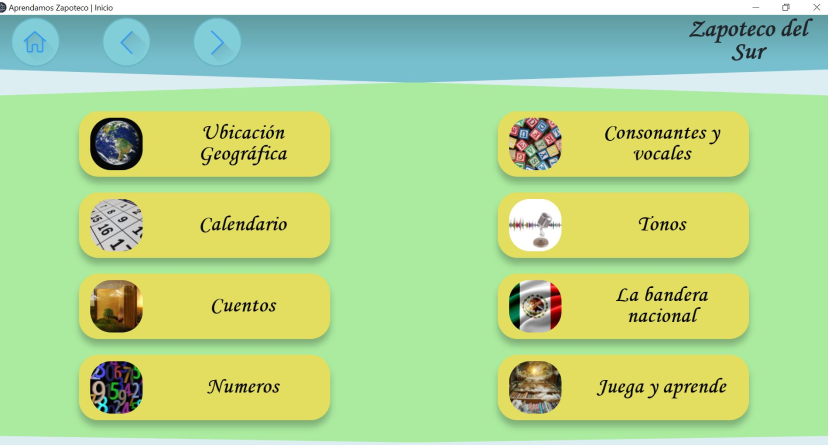
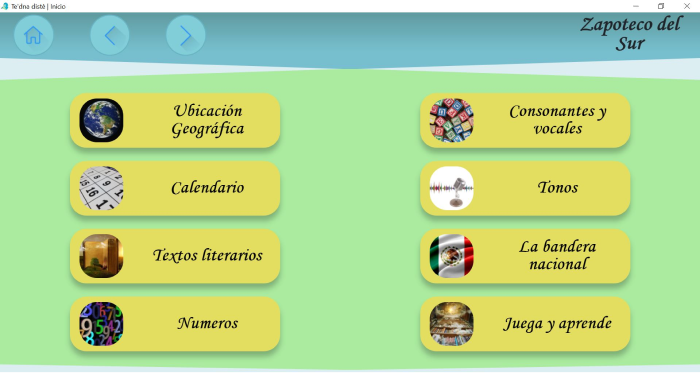
Added link to download installers

diff --git a/src/components/commons/ButtonMain.js b/src/components/commons/ButtonMain.js
@@ -1,17 +1,16 @@
 import React, { useState } from 'react';
 import '../../styles/styleButtonMain.css';
+import data from '../../data/buttonMain';
 
 const ButtonMain = () => {
-  const links = [
-    'https://www.youtube.com/watch?v=IaK7D_o8VYw',
-    'https://www.youtube.com/watch?v=hZDaS9xyINI'
-  ];
-  const [platform, setPlatform] = useState(navigator.platform);
-  const [link, setLink] = useState(links[platform === 'Win32' ? 0 : 1]);
+  const temPlatform = navigator.platform === 'Win32' ? 'Win32' : 'LinuxDeb';
+  const [platform, setPlatform] = useState(temPlatform);
+  const [link, setLink] = useState(data[temPlatform].linkToDownload);
 
   const changePlatform = (e) => {
-    setPlatform(e.target.name);
-    setLink(links[e.target.name === 'Win32' ? 0 : 1]);
+    const newPlatform = e.target.name;
+    setPlatform(newPlatform);
+    setLink(data[newPlatform].linkToDownload);
   };
 
   return (
@@ -25,7 +24,7 @@ const ButtonMain = () => {
           fontSize: '18px',
           fontWeight: 'bold'
         } }
-        >Descarga para { platform === 'Win32' ? 'Windows' : 'Linux' }</p>
+        >Descarga para { data[platform].platform }</p>
         <p style={ {
           marginBottom: '4px',
           fontSize: '16px'
@@ -37,14 +36,16 @@ const ButtonMain = () => {
         <span className="visually-hidden">Toggle Dropdown</span>
       </button>
       <ul className="dropdown-menu">
-        <li>
-          <button className="dropdown-item" type="button"
-            name="Win32" onClick={ changePlatform }>Windows</button>
-        </li>
-        <li>
-          <button className="dropdown-item" type="button"
-            name="Linux" onClick={ changePlatform }>Linux</button>
-        </li>
+        { Object.keys(data).map((platformId, index) =>
+          <li key={ index }>
+            <button
+              className="dropdown-item"
+              type="button"
+              name={ platformId }
+              onClick={ changePlatform }
+            >{ data[platformId].platform }</button>
+          </li>)
+        }
       </ul>
     </div>
   );

diff --git a/src/data/otherDownloads.js b/src/data/otherDownloads.js
@@ -3,12 +3,15 @@ export const otherDownloads = [
     nameToImage: 'windows',
     operatingSystem: ['Windows'],
     suportedVersions: ['Windows 7, 8, 10'],
-    linksToDownload: ['']
+    linksToDownload: ['https://www.mediafire.com/file/05s1xevfjv43ej5/Te%2527dna_diste-1.0.0_Setup.exe/file']
   },
   {
     nameToImage: 'linux',
     operatingSystem: ['.deb', '.rpm'],
     suportedVersions: ['Debian, Ubuntu', 'Fedora, Red Hat, SUSE'],
-    linksToDownload: ['', '']
+    linksToDownload: [
+      'https://www.mediafire.com/file/lgbbrm9w8da97wr/tedna-diste_1.0.0_amd64.deb/file',
+      'https://www.mediafire.com/file/0v84raq9xd1d2z7/tedna-diste-1.0.0-1.x86_64.rpm/file'
+    ]
   }
 ];

diff --git a/src/data/buttonMain.js b/src/data/buttonMain.js
@@ -1,0 +1,14 @@
+export default {
+  Win32: {
+    platform: 'Windows',
+    linkToDownload: 'https://www.mediafire.com/file/05s1xevfjv43ej5/Te%2527dna_diste-1.0.0_Setup.exe/file'
+  },
+  LinuxDeb: {
+    platform: 'Linux (.deb)',
+    linkToDownload: 'https://www.mediafire.com/file/lgbbrm9w8da97wr/tedna-diste_1.0.0_amd64.deb/file'
+  },
+  LinuxRpm: {
+    platform: 'Linux (.rpm)',
+    linkToDownload: 'https://www.mediafire.com/file/0v84raq9xd1d2z7/tedna-diste-1.0.0-1.x86_64.rpm/file'
+  }
+};

diff --git a/src/data/support.js b/src/data/support.js
@@ -1,4 +1,5 @@
 export default [
-  'ejemplocorreo@gmail.com',
-  'ejemplocorreo@gmail.com'
+  'eleomarpedrolorenzo@gmail.com',
+  'galvantorres2410@gmail.com',
+  'martin.monjaraz.almaraz@gmail.com'
 ];
